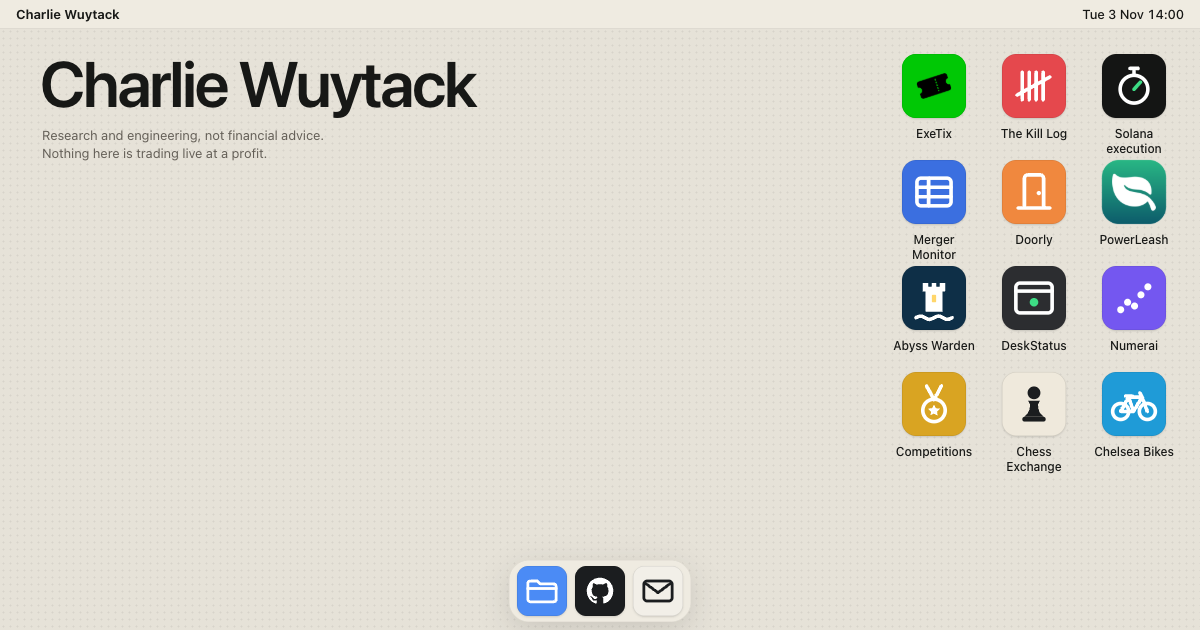
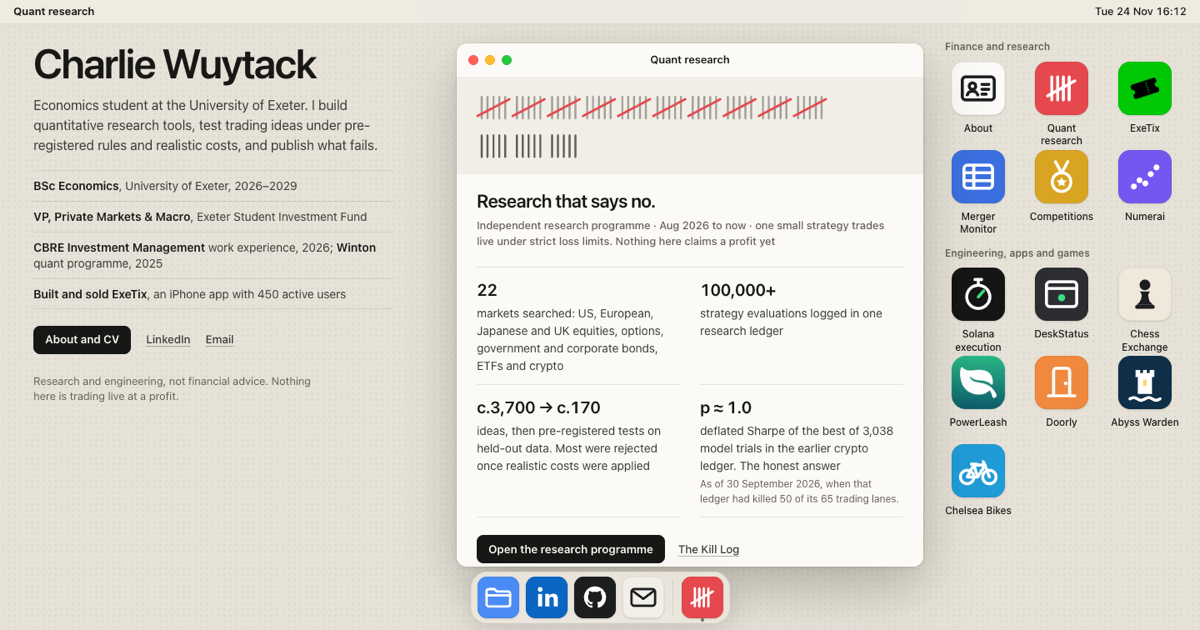
Finish the refresh: Back closes phone sheets, link fixes, dated figures, new share image
- Phone: opening a sheet adds a history entry (?open=slug), so Back closes it instead of leaving the site
- Links: exeterticketexchange.com returns 402 (deployment disabled, now the buyer's), so its buttons point to the App Store and footers name it as text; the private trading101 KILL_LOG link is now plain text
- Numerai live rounds and BRAIN alphas labelled as of Oct 2026
- Honesty line moved under the introduction so short laptop screens never overlap it
- /work/: small-text sizes and one low-contrast colour fixed; kill-log: dead pay-bar CSS removed, one paragraph reworded
- media/og/desktop.png regenerated from the new homepage; README folder map updated
- PRODUCT.md removed from tracking (kept locally, excluded)

diff --git a/work/index.html b/work/index.html
@@ -168,7 +168,7 @@
     font-size: clamp(1.2rem, 2vw, 1.45rem); line-height: 1.45; color: var(--ink); max-width: 30em;
   }
   .case-body h4 {
-    font-size: 0.7rem; color: var(--faint);
+    font-size: 0.75rem; color: var(--faint);
     margin: 2.2em 0 0.9em; font-weight: 600;
   }
   .case-body .links { display: flex; flex-wrap: wrap; gap: 10px 22px; margin: 1.4em 0 0; font-size: 1.05rem; }
@@ -294,7 +294,7 @@
   @media (max-width: 700px) {
     .ledger-head { display: none; }
     .ledger-row { grid-template-columns: 1fr; gap: 3px; }
-    .ledger-row .c::before { content: "eaten by "; font-size: 0.6rem; color: var(--faint); }
+    .ledger-row .c::before { content: "eaten by "; font-size: 0.6875rem; color: var(--faint); }
   }
 
   /* hunt table */
@@ -446,7 +446,7 @@
   .doing-row { margin: 1.6em 0 1.4em; }
   .doing-row .go { font-size: 1.12rem; }
   .doing-row .note { display: block; margin-top: 10px; font-size: 0.84rem; line-height: 1.55; color: var(--faint); max-width: 44em; }
-  .todo-label { font-size: 0.7rem; color: var(--faint); margin: 2em 0 0.9em; font-weight: 600; }
+  .todo-label { font-size: 0.75rem; color: var(--faint); margin: 2em 0 0.9em; font-weight: 600; }
 
   /* dot-and-whisker: mean with its 90% interval, one row per sample */
   .dots { margin: 0; padding: 0; list-style: none; }
@@ -495,7 +495,7 @@
   }
 
   /* DeskStatus: a schematic window, not a screenshot */
-  .ds-win { border: 1px solid var(--ink); background: #15161a; color: #d9dbd2; font-family: var(--mono); font-size: 0.7rem; margin: 2em 0 0; overflow: hidden; }
+  .ds-win { border: 1px solid var(--ink); background: #15161a; color: #d9dbd2; font-family: var(--mono); font-size: 0.75rem; margin: 2em 0 0; overflow: hidden; }
   .ds-bar { display: flex; align-items: center; gap: 7px; padding: 9px 12px; border-bottom: 1px solid #2a2c33; }
   .ds-bar i { width: 10px; height: 10px; border-radius: 50%; background: #3b3d45; }
   .ds-bar i:nth-child(1) { background: #d0574a; } .ds-bar i:nth-child(2) { background: #d4a73f; } .ds-bar i:nth-child(3) { background: #5aa05a; }
@@ -503,7 +503,7 @@
   .ds-bar .dot { margin-left: auto; width: 8px; height: 8px; border-radius: 50%; background: #00c805; box-shadow: 0 0 8px #00c805; }
   .ds-tabs { display: flex; flex-wrap: wrap; border-bottom: 1px solid #2a2c33; }
   .ds-tabs span { padding: 8px 12px; letter-spacing: 0.1em; color: #8d9089; border-right: 1px solid #2a2c33; }
-  .ds-tabs span b { color: #5f625c; font-weight: 400; margin-right: 6px; }
+  .ds-tabs span b { color: #8b8e86; font-weight: 400; margin-right: 6px; }
   .ds-tabs span.on { color: #f0f1ea; background: #1f2127; box-shadow: inset 0 -2px 0 var(--accent); }
   .ds-body { display: grid; grid-template-columns: 1.1fr 1fr; gap: 1px; background: #2a2c33; }
   .ds-body > div { background: #15161a; padding: 14px; min-height: 150px; }
@@ -672,7 +672,7 @@
   a.mm-preview:hover { color: var(--ink); border-color: var(--ink); box-shadow: 0 0 0 4px color-mix(in srgb, var(--accent) 30%, transparent); }
   a.mm-preview .cap { font-size: var(--text-xs); color: var(--faint); margin: 0 0 14px; }
   a.mm-preview table { width: 100%; border-collapse: collapse; font-size: 0.88rem; }
-  a.mm-preview th { text-align: left; font-size: 0.6rem; color: var(--faint); font-weight: 600; padding: 0 10px 8px 0; border-bottom: 1px solid var(--ink); }
+  a.mm-preview th { text-align: left; font-size: 0.6875rem; color: var(--faint); font-weight: 600; padding: 0 10px 8px 0; border-bottom: 1px solid var(--ink); }
   a.mm-preview td { padding: 10px 10px 10px 0; border-bottom: 1px solid var(--rule); vertical-align: top; }
   a.mm-preview .tk { font-family: var(--mono); font-weight: 600; letter-spacing: 0.03em; }
   a.mm-preview .co { color: var(--muted); }
@@ -839,7 +839,6 @@
           </div>
           <div class="xt-cta">
             <a class="xt-go" href="../exetix/">Inside ExeTix</a>
-            <a href="https://www.exeterticketexchange.com" target="_blank" rel="noopener">exeterticketexchange.com ↗</a>
           </div>
           <p class="xt-soon"><a href="https://apps.apple.com/gb/app/exetix/id6814591245" target="_blank" rel="noopener">On the App Store</a> · released 29 Sep 2026 · sold Oct 2026</p>
         </div>
@@ -1323,7 +1322,7 @@
       <div class="facts">
         <div><b>0.0222</b><span>mean CORR60 on 93 eras held out from a twin model (Sharpe 1.47, positive in 95% of eras)</span></div>
         <div><b>1.27</b><span>Sharpe of the payout score out of sample, with no losing quarter</span></div>
-        <div><b>2</b><span>live rounds resolved so far (93rd and 98th percentile). Too few to stake on; the policy asks for ten.</span></div>
+        <div><b>2</b><span>live rounds resolved as of Oct 2026 (93rd and 98th percentile). Too few to stake on; the policy asks for ten.</span></div>
       </div>
       <p>Eleven challengers were tested against the champion. The best, a blend with Numerai's benchmark, added 12% to the payout score but had a Holm-adjusted p of 0.14. It failed the gate and runs as an unstaked live A/B test instead. On Signals, I measured survivorship bias directly: scoring only the names I could map inflated correlation by +0.0109 (t 3.5). The fix was a point-in-time ticker map built from SEC fails-to-deliver data, which recovers 88% of dead names against 31% for the usual mapping service.</p>
       <div class="figure">
@@ -1360,7 +1359,7 @@
       <p class="tag">Three platforms, three different lessons about measurement.</p>
       <dl>
         <dt>Quantiacs Q25</dt><dd><span class="chip live">Selected</span> Trades 1 Oct – 31 Jan</dd>
-        <dt>WorldQuant BRAIN</dt><dd><span class="chip live">Gold</span> ~14 alphas live · invited to become a Research Consultant</dd>
+        <dt>WorldQuant BRAIN</dt><dd><span class="chip live">Gold</span> ~14 alphas live (Oct 2026) · invited to become a Research Consultant</dd>
         <dt>CrunchDAO</dt><dd>Structural Break 263rd of 1,332; DataCrunch around 15th of 13,534</dd>
       </dl>
     </div></div>
@@ -1392,7 +1391,7 @@
         <p class="fig-note">Compounded through the annual net returns, slippage included. Two years carry it, 2017 and 2021, and the rest is defence. A best-of-100 search on the same data manufactured a fake +0.30 of Sharpe against a detection floor of 0.68, which is why I stopped tuning it.</p>
       </div>
       <h4>WorldQuant BRAIN</h4>
-      <p>Three days stuck at zero accepted submissions. It broke when I stopped submitting single expressions and started submitting two-term combinations: correlation fell from 0.79 to 0.51 and fitness rose from 1.04 to 1.68. Gold (10,000 points) followed, with about 14 alphas live from a 416-simulation sweep. The components that made it work had each failed on their own and would have been filed as dead ends. Submissions are now paused on purpose, because each new alpha raises the correlation wall for the next.</p>
+      <p>Three days stuck at zero accepted submissions. It broke when I stopped submitting single expressions and started submitting two-term combinations: correlation fell from 0.79 to 0.51 and fitness rose from 1.04 to 1.68. Gold (10,000 points) followed, with about 14 alphas live (as of Oct 2026) from a 416-simulation sweep. The components that made it work had each failed on their own and would have been filed as dead ends. Submissions are now paused on purpose, because each new alpha raises the correlation wall for the next.</p>
       <h4>Structural Break</h4>
       <p>Two shipped improvements gained +0.0144 on my own holdout and moved the live score by −0.0003. My holdout matched live almost exactly in level, and I used that to justify believing a delta. Levels agreeing says nothing about whether improvements transfer.</p>
       <div class="figure">

diff --git a/kill-log/index.html b/kill-log/index.html
@@ -54,30 +54,6 @@
   @media (hover: hover) and (pointer: fine) { .kills tbody tr:hover { background: var(--bg-2); } }
   .kl .caption { margin: 0 0 var(--space-2); }
 
-  /* pay bar: arrives once the hero button scrolls away, leaves at the footer */
-  .paybar {
-    display: flex;
-    align-items: center;
-    justify-content: space-between;
-    gap: var(--space-4);
-    position: fixed;
-    z-index: 40;
-    left: 0;
-    right: 0;
-    margin-inline: auto;
-    bottom: calc(var(--space-4) + env(safe-area-inset-bottom, 0px));
-    width: min(560px, calc(100% - 2 * var(--gutter)));
-    padding: var(--space-2) var(--space-2) var(--space-2) var(--space-5);
-    background: color-mix(in srgb, var(--bg) 84%, transparent);
-    -webkit-backdrop-filter: saturate(1.6) blur(14px);
-    backdrop-filter: saturate(1.6) blur(14px);
-    border: 1px solid var(--line);
-    border-radius: var(--radius-pill);
-    box-shadow: 0 8px 32px rgba(0, 0, 0, 0.08), 0 1px 2px rgba(0, 0, 0, 0.06);
-    transition: transform var(--spring-snappy-dur) var(--spring-snappy), opacity var(--dur-base) var(--ease-out);
-  }
-  .paybar[data-hidden] { opacity: 0; transform: translateY(calc(100% + var(--space-5))); pointer-events: none; }
-  .paybar .hint { font-size: var(--text-sm); font-weight: 500; color: var(--fg-2); }
   .site-footer { position: relative; border-top: 0; max-width: calc(760px + 2 * var(--gutter)); margin-top: var(--space-9); padding-bottom: calc(var(--space-9) + env(safe-area-inset-bottom, 0px)); }
   .site-footer::before { content: ""; position: absolute; top: 0; left: var(--gutter); right: var(--gutter); border-top: 1px solid var(--line); }
 
@@ -93,7 +69,6 @@
     .cta .btn { width: 100%; }
     .kills { font-size: var(--text-sm); }
     .kills td:nth-child(2) { padding-right: var(--space-3); }
-    .paybar { gap: var(--space-3); padding-left: var(--space-4); }
   }
   /* header pill: same rules as subscribe/ */
   .site-header a.pay {
@@ -105,11 +80,6 @@
   .site-header a.pay:active { transform: scale(0.97); }
   @media (hover: hover) and (pointer: fine) { .site-header a.pay:hover { background: var(--accent); color: var(--accent-fg); } }
   @media (max-width: 640px) { .site-header .opt { display: none; } }
-  /* narrow: the restored price hint sits above the button instead of wrapping beside it */
-  @media (max-width: 640px) {
-    .paybar { flex-direction: column; align-items: stretch; gap: var(--space-2); padding: var(--space-3) var(--space-2) var(--space-2); border-radius: var(--radius-3); }
-    .paybar .hint { text-align: center; }
-  }
 </style>
 </head>
 <body>
@@ -181,13 +151,13 @@
     </table>
     </div>
     <p class="caption">Numbers are copied from the paper kill log, or re-costed from stored components. Missing cost stacks were left blank in the source rather than invented. No live P&amp;L column is filled.</p>
-    <p class="caption">The full CSV stays in the research repo. Source: <a href="https://github.com/Charliewytk/trading101/blob/main/PaperMill/KILL_LOG.md">PaperMill/KILL_LOG.md</a> in trading101 (merged paper book). A longer write-up is the <a href="../essays/friction-sized-edges.html">friction-sized note</a>.</p>
+    <p class="caption">The full CSV stays in the research repo. Source: PaperMill/KILL_LOG.md in the private trading101 repo (merged paper book). A longer write-up is the <a href="../essays/friction-sized-edges.html">friction-sized note</a>.</p>
   </section>
 
   <section class="reveal" aria-labelledby="not">
     <h2 id="not">What this is not</h2>
     <p>This is a paper book. No live P&amp;L is claimed. No live book is implied.</p>
-    <p>Not advice, not a recommendation, not a tip sheet, and not an order. Cost-sizing and extraction only. No live edge is claimed. The paper record is public so the deaths stay visible; it is not a second product.</p>
+    <p>It is not advice, a recommendation, a tip sheet or an order. It sizes costs and extracts numbers from filings, and no live edge is claimed. The paper record is public so that the deaths stay visible, not as a second product.</p>
     <p>The same cost-sizing is what <a href="../merger-monitor/">Merger Monitor</a> publishes on every cash row: a measured break rate, round-trip cost, and T-bill carry. A 3% spread is not 24.6% a year after that.</p>
   </section>
 </main>

diff --git a/index.html b/index.html
@@ -58,6 +58,7 @@
       <a class="link" href="https://www.linkedin.com/in/charleswuytack" rel="noopener">LinkedIn</a>
       <a class="link" href="mailto:charlie@wuytack.net">Email</a>
     </p>
+    <p class="honesty">Research and engineering, not financial advice. Nothing here is trading live at a profit.</p>
   </section>
 
   <nav class="apps" aria-label="Projects">
@@ -82,7 +83,6 @@
     </ul>
   </nav>
 
-  <p class="honesty">Research and engineering, not financial advice. Nothing here is trading live at a profit.</p>
 </main>
 
 <!-- Dock: the owner's links, then a tile for each open window. -->
@@ -305,7 +305,7 @@
     <dl class="nums">
       <div><dt>1.47</dt><dd>Sharpe of CORR60 over 93 held-out eras, positive in 95% of them</dd></div>
       <div><dt>1.27</dt><dd>Sharpe of the payout score out of sample, with no losing quarter</dd></div>
-      <div><dt>2</dt><dd>live rounds resolved so far. Too few to stake on; the policy asks for ten</dd></div>
+      <div><dt>2</dt><dd>live rounds resolved, as of Oct 2026. Too few to stake on; the policy asks for ten</dd></div>
     </dl>
     <p class="actions">
       <a class="btn" href="tracks/numerai/">Open Numerai</a>
@@ -329,7 +329,7 @@
     <p class="meta">Selected</p>
     <dl class="nums">
       <div><dt>1 of 15</dt><dd>strategies selected to trade live in the Quantiacs Q25 contest<small>In-sample Sharpe 1.22, maximum drawdown 23.6%.</small></dd></div>
-      <div><dt>Gold</dt><dd>on WorldQuant BRAIN, with about 14 alphas live. Invited to become a Research Consultant</dd></div>
+      <div><dt>Gold</dt><dd>on WorldQuant BRAIN, with about 14 alphas live as of Oct 2026. Invited to become a Research Consultant</dd></div>
       <div><dt>263rd of 1,332</dt><dd>Structural Break</dd></div>
       <div><dt>−0.0003</dt><dd>live change from two improvements that gained +0.0144 on my holdout</dd></div>
     </dl>

diff --git a/assets/desktop.css b/assets/desktop.css
@@ -128,7 +128,7 @@ ul { list-style: none; margin: 0; padding: 0; }
 .links { display: flex; flex-wrap: wrap; align-items: center; gap: 8px 18px; margin: 18px 0 0; }
 
 .honesty {
-  position: absolute; left: 42px; bottom: 100px; margin: 0; max-width: 20rem;
+  margin: 22px 0 0; max-width: 22rem;
   font-size: 0.8125rem; line-height: 1.45; color: var(--muted); text-wrap: pretty;
 }
 
@@ -384,7 +384,7 @@ ul { list-style: none; margin: 0; padding: 0; }
   .app .icon { --size: 60px; }
   .app .label { font-size: 12px; padding: 0 2px; max-width: 84px; }
 
-  .honesty { position: static; max-width: none; margin-top: auto; padding: 0 6px; font-size: 0.8125rem; text-align: center; }   /* pinned above the dock, like page dots */
+  .honesty { max-width: none; font-size: 0.8125rem; }
 
   .dock { left: 16px; right: 16px; bottom: calc(12px + env(safe-area-inset-bottom)); width: auto; max-width: 420px; }
   .dock__list { justify-content: space-evenly; padding: 12px 8px 8px; }
@@ -434,9 +434,9 @@ ul { list-style: none; margin: 0; padding: 0; }
     display: grid; grid-template-columns: minmax(180px, 1fr) minmax(0, 2.4fr); grid-template-rows: auto 1fr; gap: 10px 24px; align-items: start;
     padding-top: calc(16px + env(safe-area-inset-top)); padding-left: max(16px, env(safe-area-inset-left)); padding-right: max(16px, env(safe-area-inset-right)); padding-bottom: calc(96px + env(safe-area-inset-bottom));
   }
-  .hello { grid-column: 1; grid-row: 1; padding-top: 6px; }
+  .hello { grid-column: 1; grid-row: 1 / 3; padding-top: 6px; }
   .hello h1 { font-size: 2rem; }
-  .honesty { grid-column: 1; grid-row: 2; margin: 0; padding: 0 6px; text-align: left; }
+  .honesty { margin: 12px 0 0; }
   .apps { grid-column: 2; grid-row: 1 / 3; }
   .apps ul { grid-template-columns: repeat(auto-fill, minmax(76px, 1fr)); row-gap: 12px; }
   .app .icon { --size: 54px; }

diff --git a/tracks/competitions/index.html b/tracks/competitions/index.html
@@ -56,7 +56,7 @@
     <div class="disc" aria-hidden="true"></div>
   </div>
 
-  <div class="wrap"><div class="facts"><div><b>1 of 15</b><span>strategies selected to trade live in the Quantiacs Q25 contest</span></div><div><b>Gold</b><span>on WorldQuant BRAIN, with about 14 alphas live</span></div><div><b>−0.0003</b><span>live change from two improvements that gained +0.0144 on my holdout</span></div></div></div>
+  <div class="wrap"><div class="facts"><div><b>1 of 15</b><span>strategies selected to trade live in the Quantiacs Q25 contest</span></div><div><b>Gold</b><span>on WorldQuant BRAIN, with about 14 alphas live as of Oct 2026</span></div><div><b>−0.0003</b><span>live change from two improvements that gained +0.0144 on my holdout</span></div></div></div>
 
   <div class="wrap body">
     <div class="story">
@@ -75,7 +75,7 @@
       <p>Over three shipped models my holdout climbed from 57.31 to 58.75 while the live score went to 57.43. 263rd of 1,332. Levels agreeing says nothing about whether improvements transfer.</p>
       <div class="cta"><a class="btn" href="../../work/#competitions">Full case study</a></div></section>
     </div>
-    <dl class="liner"><dt>Quantiacs Q25</dt><dd>Selected · trades 1 Oct – 31 Jan</dd><dt>WorldQuant BRAIN</dt><dd>Gold · ~14 alphas live · invited to become a Research Consultant</dd><dt>CrunchDAO</dt><dd>Structural Break 263rd of 1,332; DataCrunch around 15th of 13,534</dd></dl>
+    <dl class="liner"><dt>Quantiacs Q25</dt><dd>Selected · trades 1 Oct – 31 Jan</dd><dt>WorldQuant BRAIN</dt><dd>Gold · ~14 alphas live (Oct 2026) · invited to become a Research Consultant</dd><dt>CrunchDAO</dt><dd>Structural Break 263rd of 1,332; DataCrunch around 15th of 13,534</dd></dl>
   </div>
 </main>
 

diff --git a/exetix/index.html b/exetix/index.html
@@ -51,7 +51,7 @@
         <p class="pitch">Get pinged the second Exeter tickets drop. <span class="dim">Sold out? Buy a verified student’s spare.</span></p>
         <p class="hero-sub">Drop alerts for every club night and society social in Exeter, and a resale marketplace where sellers pay nothing and buyers pay only what the card processing costs.</p>
         <div class="ctas">
-          <a class="btn" href="https://www.exeterticketexchange.com" target="_blank" rel="noopener">Open exeterticketexchange.com ↗</a>
+          <a class="btn" href="https://apps.apple.com/gb/app/exetix/id6814591245" target="_blank" rel="noopener">See it on the App Store ↗</a>
           <a href="how-it-works.html">How it works →</a>
         </div>
         <p class="soon"><a href="https://apps.apple.com/gb/app/exetix/id6814591245" target="_blank" rel="noopener">On the App Store</a> · released 29 Sep 2026 · built and sold by Charlie, Oct 2026</p>
@@ -166,7 +166,7 @@
 
 <footer class="foot">
   <div class="wrap">
-    <p>ExeTix was designed and built by Charlie Wuytack, and sold in October 2026. <a href="https://www.exeterticketexchange.com" target="_blank" rel="noopener">exeterticketexchange.com</a> · <a href="https://apps.apple.com/gb/app/exetix/id6814591245" target="_blank" rel="noopener">On the App Store</a>.</p>
+    <p>ExeTix was designed and built by Charlie Wuytack, and sold in October 2026. exeterticketexchange.com (now run by the buyer) · <a href="https://apps.apple.com/gb/app/exetix/id6814591245" target="_blank" rel="noopener">On the App Store</a>.</p>
     <p><a href="../">← All projects</a> · <a href="mailto:charlie@wuytack.net">charlie@wuytack.net</a></p>
   </div>
 </footer>

diff --git a/assets/desktop.js b/assets/desktop.js
@@ -260,14 +260,23 @@
       dockTiles.add(this, instant);
       syncVideos();
       if (isPhone()) background.forEach((n) => (n.inert = true));
+      // Phone: a sheet gets its own history entry, so the Back gesture closes it instead of leaving the site.
+      if (isPhone() && !instant && history.state?.win !== this.slug) {
+        history.pushState({ win: this.slug }, '', `${location.pathname}?open=${this.slug}`);
+        this.pushed = true;
+      }
       if (focus) this.el.focus({ preventScroll: true });
     }
 
     // A phone sheet is modal (the home screen behind it is inert); a desktop window is not.
     modal() { if (isPhone()) this.el.setAttribute('aria-modal', 'true'); else this.el.removeAttribute('aria-modal'); }
 
-    close() {
+    close({ fromPop = false } = {}) {
       if (this.state === 'closed') return;
+      if (this.pushed) {                                     // closed by hand: drop the history entry the sheet added
+        this.pushed = false;
+        if (!fromPop && history.state?.win === this.slug) history.back();
+      }
       const hadFocus = this.el.contains(document.activeElement);
       const wasMin = this.state === 'min';
       this.state = 'closed';
@@ -623,6 +632,12 @@
       win.open(win.state === 'min' ? dockTiles.tileOf(win) : win.app, { kbd: e.detail === 0 });
     });
   }
+
+  // Back (phone): close the sheet whose history entry was just left.
+  addEventListener('popstate', () => {
+    const want = history.state?.win;
+    for (const w of wins.values()) if (w.pushed && w.state === 'open' && w.slug !== want) w.close({ fromPop: true });
+  });
 
   // Esc closes the frontmost window.
   addEventListener('keydown', (e) => {

diff --git a/exetix/how-it-works.html b/exetix/how-it-works.html
@@ -46,7 +46,7 @@
         <h1>Get there first. Or get the spare.</h1>
         <p class="pitch">Follow the nights you go to. <span class="dim">ExeTix watches their ticket pages, pings you when they move, and runs a student marketplace for when you miss out.</span></p>
         <div class="ctas">
-          <a class="btn" href="https://www.exeterticketexchange.com" target="_blank" rel="noopener">Try it on the web ↗</a>
+          <a class="btn" href="https://apps.apple.com/gb/app/exetix/id6814591245" target="_blank" rel="noopener">See it on the App Store ↗</a>
           <a href="#alerts">Start with drops ↓</a>
         </div>
         <p class="soon"><a href="https://apps.apple.com/gb/app/exetix/id6814591245" target="_blank" rel="noopener">On the App Store</a> · released 29 Sep 2026 · built and sold by Charlie, Oct 2026</p>
@@ -204,7 +204,7 @@
 
 <footer class="foot">
   <div class="wrap">
-    <p>ExeTix was designed and built by Charlie Wuytack, and sold in October 2026. <a href="https://www.exeterticketexchange.com" target="_blank" rel="noopener">exeterticketexchange.com</a> · <a href="https://apps.apple.com/gb/app/exetix/id6814591245" target="_blank" rel="noopener">On the App Store</a>.</p>
+    <p>ExeTix was designed and built by Charlie Wuytack, and sold in October 2026. exeterticketexchange.com (now run by the buyer) · <a href="https://apps.apple.com/gb/app/exetix/id6814591245" target="_blank" rel="noopener">On the App Store</a>.</p>
     <p><a href="../">← All projects</a> · <a href="mailto:charlie@wuytack.net">charlie@wuytack.net</a></p>
   </div>
 </footer>

diff --git a/tracks/numerai/index.html b/tracks/numerai/index.html
@@ -56,7 +56,7 @@
     <div class="disc" aria-hidden="true"></div>
   </div>
 
-  <div class="wrap"><div class="facts"><div><b>1.47</b><span>Sharpe of CORR60 over 93 held-out eras, positive in 95% of them</span></div><div><b>1.27</b><span>Sharpe of the payout score out of sample, with no losing quarter</span></div><div><b>2</b><span>live rounds resolved so far. Too few to stake on; the policy asks for ten</span></div></div></div>
+  <div class="wrap"><div class="facts"><div><b>1.47</b><span>Sharpe of CORR60 over 93 held-out eras, positive in 95% of them</span></div><div><b>1.27</b><span>Sharpe of the payout score out of sample, with no losing quarter</span></div><div><b>2</b><span>live rounds resolved, as of Oct 2026. Too few to stake on; the policy asks for ten</span></div></div></div>
 
   <div class="wrap body">
     <div class="story">

diff --git a/tracks/exetix/index.html b/tracks/exetix/index.html
@@ -78,7 +78,6 @@
       <div class="cta">
         <a class="btn" href="https://apps.apple.com/gb/app/exetix/id6814591245">See it on the App Store</a>
         <a class="btn secondary" href="../../exetix/">Inside ExeTix</a>
-        <a class="btn secondary" href="https://www.exeterticketexchange.com">exeterticketexchange.com ↗</a>
       </div></section>
     </div>
     <dl class="liner"><dt>Status</dt><dd>Built and released 29 Sep 2026 · sold Oct 2026</dd><dt>Stack</dt><dd>SwiftUI · WidgetKit · Live Activities · Next.js · Stripe Connect · Python</dd><dt>Read more</dt><dd><a href="../../exetix/how-it-works.html">How it works</a> · <a href="../../exetix/engineering.html">Engineering</a> · <a href="../../exetix/gallery.html">Gallery</a></dd></dl>

diff --git a/exetix/engineering.html b/exetix/engineering.html
@@ -251,7 +251,7 @@
 
 <footer class="foot">
   <div class="wrap">
-    <p>ExeTix was designed and built by Charlie Wuytack, and sold in October 2026. <a href="https://www.exeterticketexchange.com" target="_blank" rel="noopener">exeterticketexchange.com</a> · <a href="https://apps.apple.com/gb/app/exetix/id6814591245" target="_blank" rel="noopener">On the App Store</a>.</p>
+    <p>ExeTix was designed and built by Charlie Wuytack, and sold in October 2026. exeterticketexchange.com (now run by the buyer) · <a href="https://apps.apple.com/gb/app/exetix/id6814591245" target="_blank" rel="noopener">On the App Store</a>.</p>
     <p><a href="../">← All projects</a> · <a href="mailto:charlie@wuytack.net">charlie@wuytack.net</a></p>
   </div>
 </footer>

diff --git a/exetix/gallery.html b/exetix/gallery.html
@@ -107,7 +107,7 @@
 
 <footer class="foot">
   <div class="wrap">
-    <p>ExeTix was designed and built by Charlie Wuytack, and sold in October 2026. <a href="https://www.exeterticketexchange.com" target="_blank" rel="noopener">exeterticketexchange.com</a> · <a href="https://apps.apple.com/gb/app/exetix/id6814591245" target="_blank" rel="noopener">On the App Store</a>.</p>
+    <p>ExeTix was designed and built by Charlie Wuytack, and sold in October 2026. exeterticketexchange.com (now run by the buyer) · <a href="https://apps.apple.com/gb/app/exetix/id6814591245" target="_blank" rel="noopener">On the App Store</a>.</p>
     <p><a href="../">← All projects</a> · <a href="mailto:charlie@wuytack.net">charlie@wuytack.net</a></p>
   </div>
 </footer>
